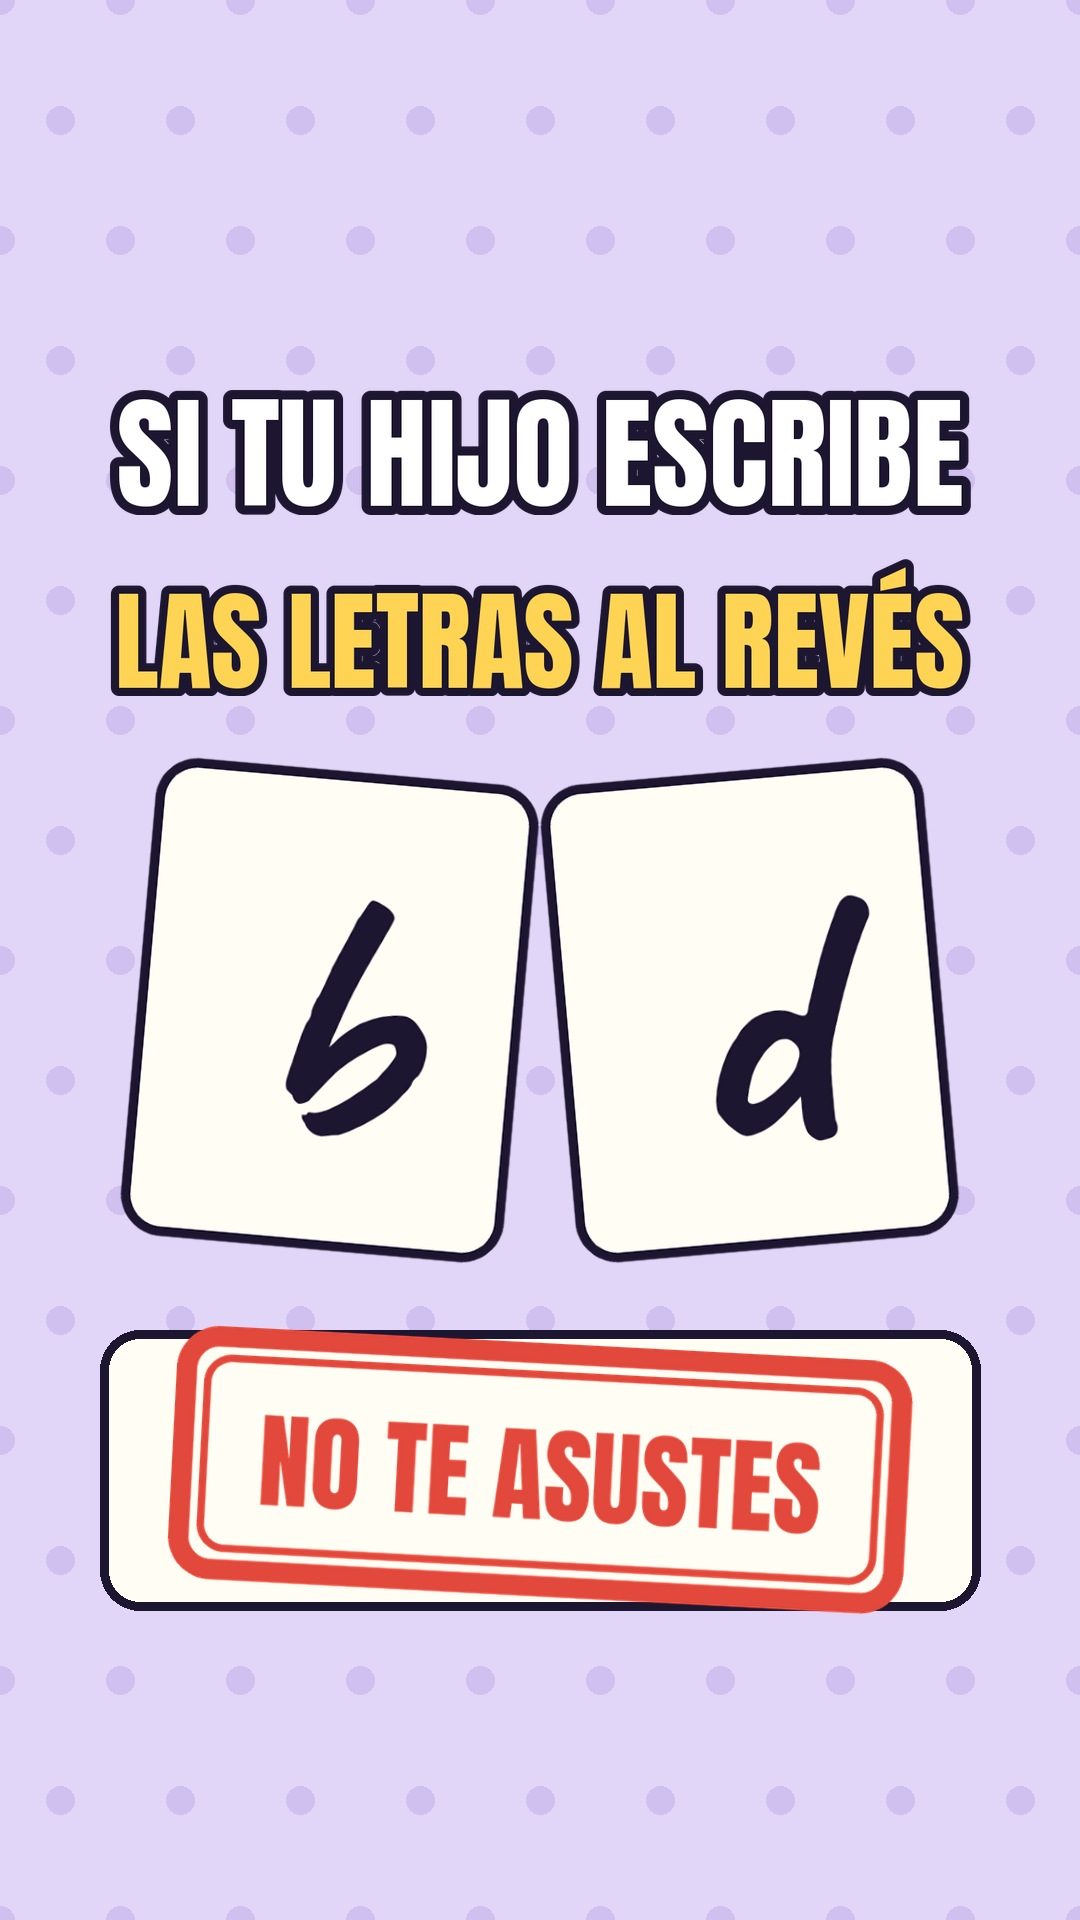
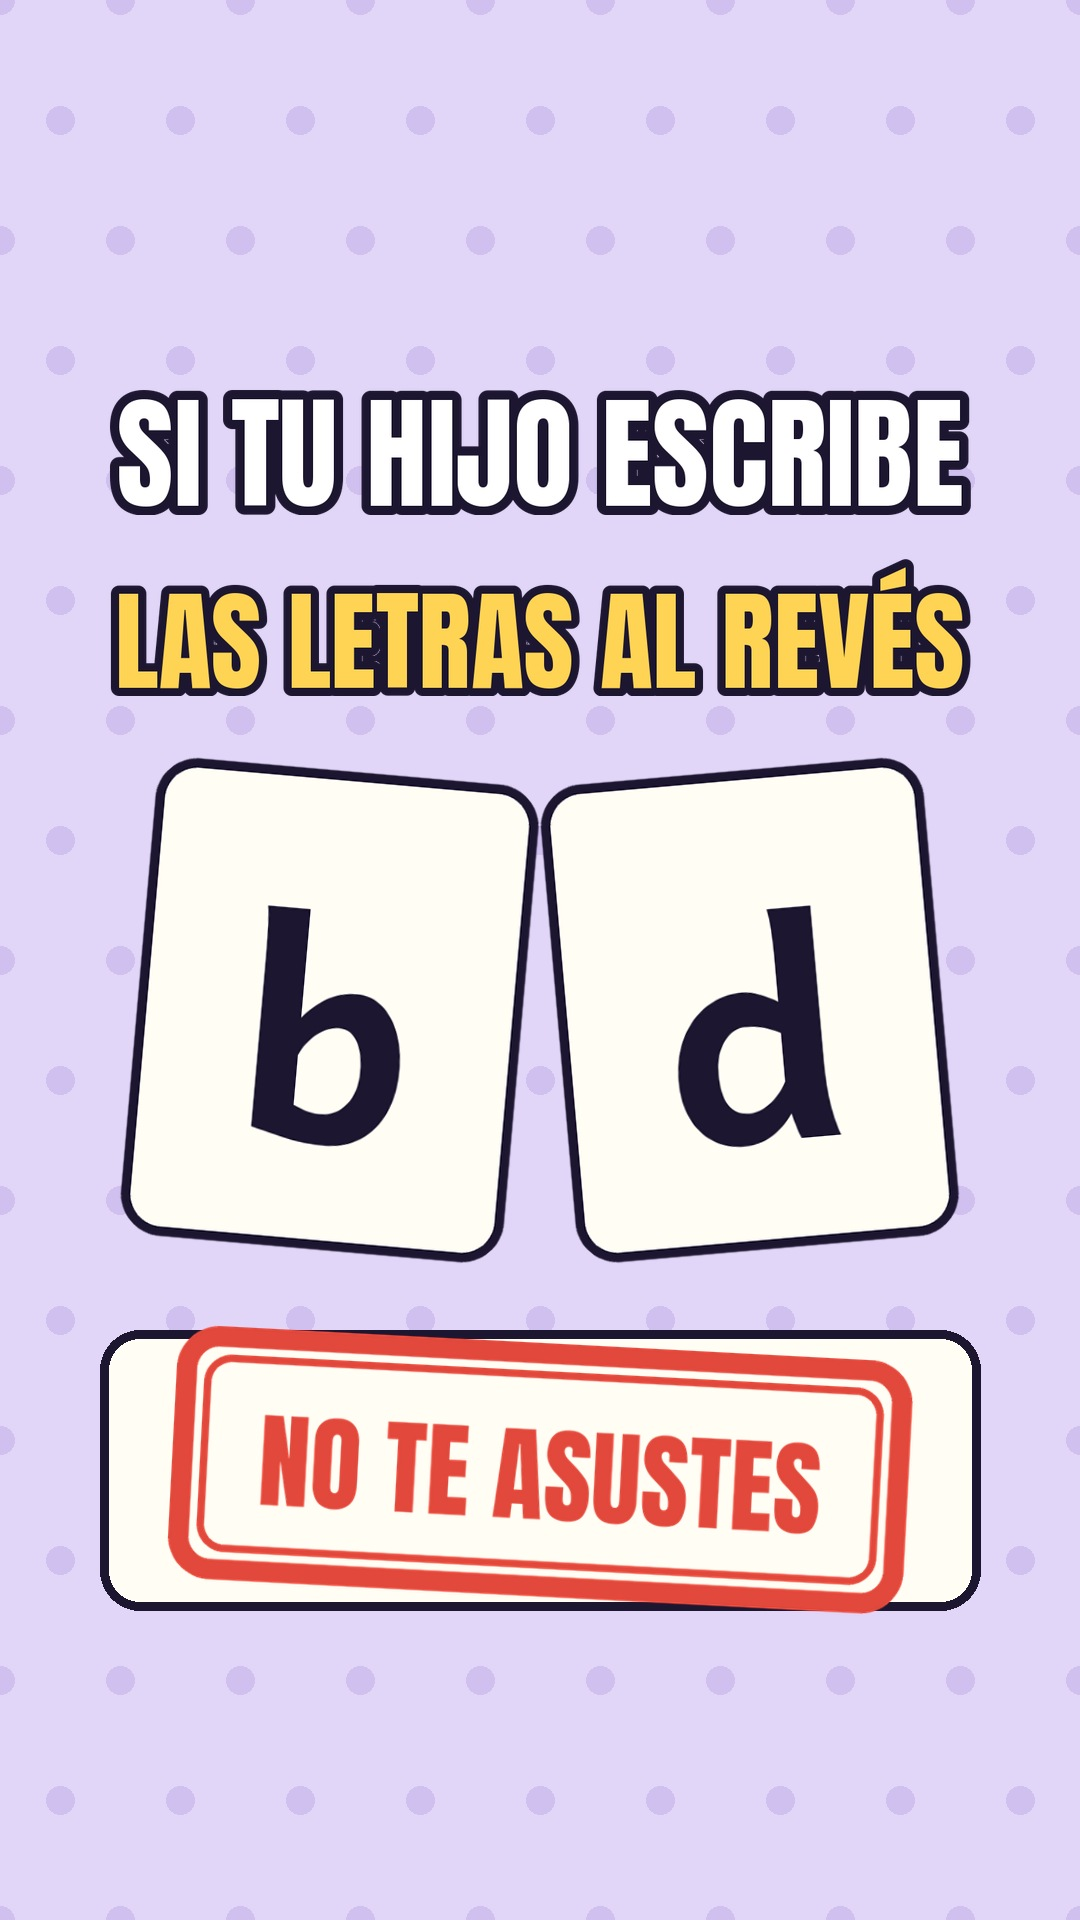
Mito: letras b/d con fuente Andika (más claras)
Claude-Session: https://claude.ai/code/session_01NdJoAqo2otMfzihjsbxQNW

Changed region(s): [[0.6111, 0.4688, 0.825, 0.625], [0.2139, 0.4688, 0.3972, 0.5938]]

diff --git a/pinti-tips/mito_reves/render.py b/pinti-tips/mito_reves/render.py
@@ -145,7 +145,7 @@ def numero(b, n, t, x=540, y=900, s=1.0, color=None):
 
 def tarjeta(txt, w=420, h=520, size=380, color=A.CREMA, espejo=False, fcol=None):
     im = A.canvas(w, h); d = ImageDraw.Draw(im); A.rrect(d, (8, 8, w - 8, h - 8), 44, color, A.OL, 10); im = A.fin(im).copy()
-    g = Image.new("RGBA", (w, h), (0, 0, 0, 0)); ImageDraw.Draw(g).text((w // 2, h // 2 + 10), txt, font=A.font("hand", size), fill=fcol or A.OL, anchor="mm")
+    g = Image.new("RGBA", (w, h), (0, 0, 0, 0)); ImageDraw.Draw(g).text((w // 2, h // 2 + 10), txt, font=A.font("andika", int(size*.82)), fill=fcol or A.OL, anchor="mm")
     if espejo: g = ImageOps.mirror(g)
     im.alpha_composite(g); return im
 
